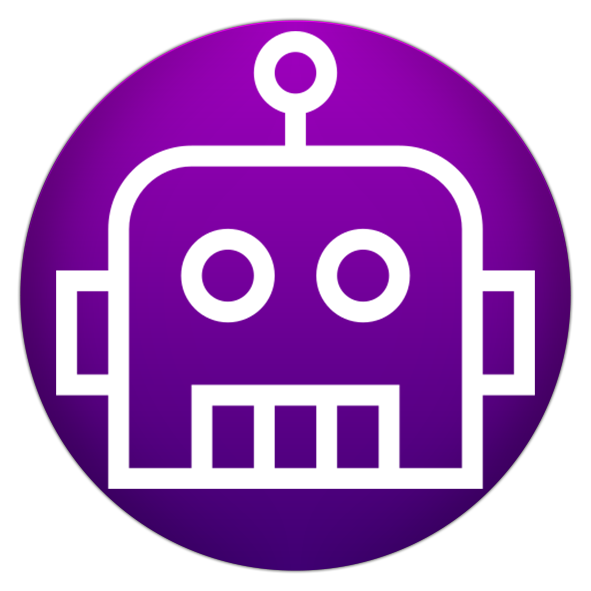
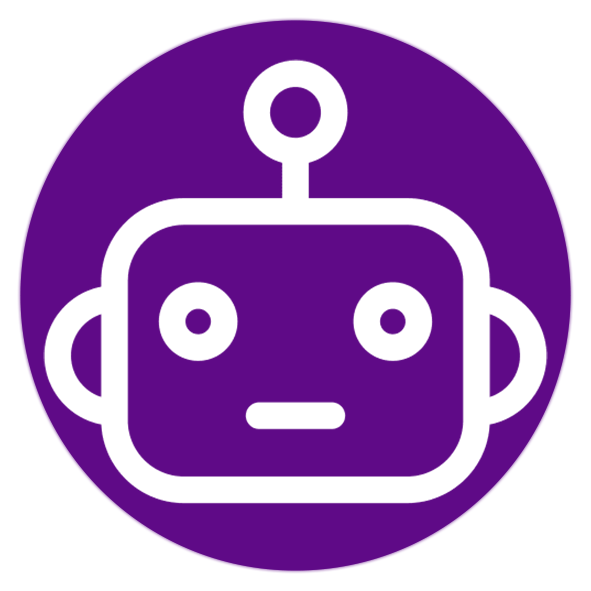
Alterações 07/05/2021
Alteração do gradient, criação do dropdown no navbar

diff --git a/index.html b/index.html
@@ -27,11 +27,19 @@
           <li class="nav-item">
             <a class="nav-link" href="#SOBRE">SOBRE</a>
           </li>
-          <li class="nav-item">
-            <a class="nav-link" href="#ROBOS">ROBÔS</a>
+
+          <li class="nav-item dropdown">
+            <a class="nav-link dropdown-toggle" href="#" id="navbardrop" data-toggle="dropdown">
+              ROBÔS
+            </a>
+            <div class="dropdown-menu">
+              <a class="dropdown-item" href="#INICIO">FACEBOOK</a>
+              <a class="dropdown-item" href="#SOBRE">WHATSAPP</a>
+              <a class="dropdown-item" href="#">INSTGRAM</a>
+            </div>
           </li>
           <li class="nav-item">
-            <a class="nav-link disabled" href="#CONTATO">CONTATO</a>
+            <a class="nav-link" href="#CONTATO">CONTATO</a>
           </li>
         </ul>
       </nav>
@@ -94,6 +102,8 @@
           <li>Facebook</li>
           <li>Whatsapp</li>
           <li>Instagram</li>
+          <li>Twitter</li>
+          <li>YouTube</li>
         </ul>
         </h3>
       </div>
@@ -105,21 +115,21 @@
   <div class="card-deck" style="margin-top: 4%;">
     <div class="card border-0">
       <div class="card-body text-center">
-        <i class="fas fa-bolt" style="font-size: 60px;"></i>
+        <i class="fas fa-bolt" style="font-size: 60px; color:#5f0a87;"></i>
         <h3>Por que usar um Bot ?</h3>
         <p class="card-text" style="font-size: 20px;">Eles são fáceis e baratos de produzir, têm baixo custo de manutenção e são altamente configuráveis.</p>
       </div>
     </div>
     <div class="card border-0">
       <div class="card-body text-center">
-        <i class="far fa-clock"style="font-size: 60px;"></i>
+        <i class="far fa-clock"style="font-size: 60px; color:#5f0a87;"></i>
         <h3>Pra que serve um Bot ?</h3>
         <p class="card-text" style="font-size: 20px;">Os bots são extremamente úteis para alcançar nossos objetivos de forma mais rápida.</p>
       </div>
     </div>
     <div class="card border-0">
       <div class="card-body text-center">
-        <i class="far fa-gem" style="font-size: 60px;"></i>
+        <i class="far fa-gem" style="font-size: 60px; color:#5f0a87;"></i>
         <h3>Quais as vantagens ?</h3>
         <p class="card-text" style="font-size: 20px;">As maiores vantagens em usar bots está justamente na redução de custos e na melhora da qualidade de entrega de tarefas repetitivas.</p>
       </div>

diff --git a/styles/custom.css b/styles/custom.css
@@ -3,8 +3,8 @@ body {
 }
 
 .back {
-    background-color: #1fd1f9;
-    background-image: linear-gradient(315deg, #1fd1f9 0%, #b621fe 74%);
+    background-color: #a4508b;
+    background-image: linear-gradient(326deg, #a4508b 0%, #5f0a87 74%);    
     padding-bottom: 50px;
     height: 100%;
     width: 100%;  
@@ -31,8 +31,8 @@ body {
 }
 
 .bgground {
-    background-color: #1fd1f9;
-    background-image: linear-gradient(315deg, #1fd1f9 0%, #b621fe 74%);
+    background-color: #a4508b;
+    background-image: linear-gradient(326deg, #a4508b 0%, #5f0a87 74%);    
 }
 
 .botao {
